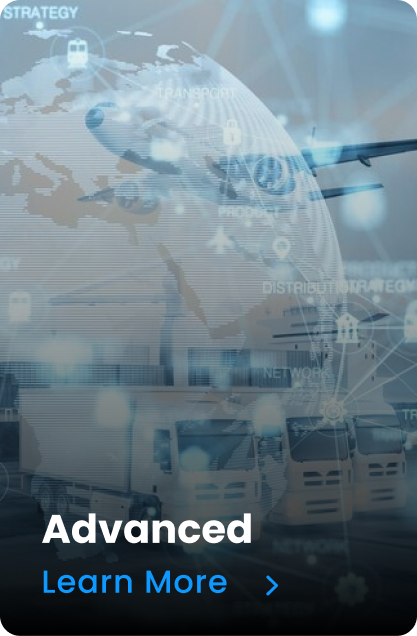
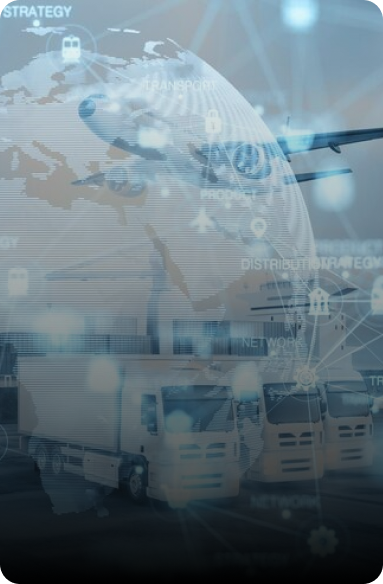
Major chances in cards

diff --git a/Index.html b/Index.html
@@ -208,9 +208,9 @@
     </section>
 
     <!-- Cards -->
-    <section class="">
+    <section >
         <div class="container p-5">
-            <div class="text-center py-5">
+            <div class="text-center">
 
                 <div class="monitor-text p-5">
                     <h3>unparallalled customer support</h3>
@@ -218,100 +218,82 @@
                     <!-- <p>Lorem ipsum dolor sit amet, consectetur adipisicing elit. Obcaecati reprehenderit provident vitae expedita quas! Eveniet animi vitae placeat facere necessitatibus inventore voluptatum asperiores illum deleniti, aperiam, veniam culpa id dolorum.</p> -->
                     <!-- <a href="#" class="explore-btn">Explore</a> -->
                 </div>
-
-                <div class="container">
-                    <div class="row justify-content-center m-0">
-        
-                        <div class="card-img mb-3 ml-2" style="width: 20rem;">
-                            <a href=""><img src="images/Electic.png" class="card-img" alt="..."></a>
-                            
-                            <div class="card-content">
-                                <!-- <p class="card-text">Electricity</p> -->
-                            </div>
-                        </div>
-                        <div class="card-img mb-3 ml-2" style="width: 20rem;">
-                            <a href=""><img src="images/Technology.png" class="card-img-top" alt="..."></a>
-                            
-                            <div class="card-body">
-                                <!-- <p class="card-text">Some quick example text to build on the card title and make up the bulk of the card's content.</p> -->
-                            </div>
-                        </div>
-                        <div class="card-img mb-3 ml-2" style="width: 20rem;">
-                            <a href=""><img src="images/Trucks.png" class="card-img-top" alt="..."></a>
-                            
-                            <div class="card-body">
-                                <!-- <p class="card-text">Some quick example text to build on the card title and make up the bulk of the card's content.</p> -->
-                            </div>
-                        </div> 
-                    </div>
-                </div>
-
             </div>
         </div>
-    </section>
 
-
-    <section>
-        <style>
-            /* Custom styles */
-            .card-container {
-                display: flex;
-                flex-wrap: wrap;
-                justify-content: center;
-                gap: 20px;
-            }
-            
-            .card-body{
-                position: absolute;
-                margin-top: 20.5rem;
-            }
-
-            .card-title{
-                font-size: 33px;
-            }
-    
-            /* For mobile view */
-            @media (max-width: 768px) {
-                .card-container {
-                    flex-wrap: wrap;
-                }
-                /* .card-body{
-                margin-top: -19rem;
-                }    */
-            }
-        </style>
         <div class="container">
             <div class="card-container">
-                <div class="card" style="width: 18rem;">
-                    <img src="images/Electic.png" class="card-img-top" alt="...">
+                <div class="baraha card mb-3 ml-2" style="width: 18rem;">
+                    
+                    <img src="images/Electric.png" class="card-img-top" alt="...">
                     <div class="card-body">
-                        <h5 class="card-title text-white fw-bold">Publi Utility</h5>
+                        <h5 class="card-title text-white fw-bold">Standard</h5>
                         <a href="#">Learn more</a>
                     </div>
                 </div>
-                <div class="card" style="width: 18rem;">
-                    <img src="images/Electic.png" class="card-img-top" alt="...">
+                <div class="baraha card mb-3 ml-2" style="width: 18rem;">
+                    <img src="images/Technology.png" class="card-img-top" alt="...">
                     <div class="card-body">
-                        <h5 class="card-title">Card 2</h5>
-                        <p class="card-text">Some quick example text to build on the card title and make up the bulk of the card's content.</p>
-                        <a href="#" class="btn btn-primary">Go somewhere</a>
+                        <h5 class="card-title text-white fw-bold">Advance</h5>
+                        <a href="#">Learn more</a>
                     </div>
                 </div>
-                <div class="card" style="width: 18rem;">
-                    <img src="images/Electic.png" class="card-img-top" alt="...">
+                <div class="baraha card mb-3 ml-2" style="width: 18rem;">
+                    <img src="images/Trucks.png" class="card-img-top" alt="...">
                     <div class="card-body">
-                        <h5 class="card-title">Card 3</h5>
-                        <p class="card-text">Some quick example text to build on the card title and make up the bulk of the card's content.</p>
-                        <a href="#" class="btn btn-primary">Go somewhere</a>
+                        <h5 class="card-title text-white fw-bold">Public Utility</h5>
+                        <a href="#">Learn more</a>
                     </div>
                 </div>
+                <!-- Add more cards here if needed -->
             </div>
         </div>
     </section>
 
+    
+
+    <!-- <style>
+
+   .card-container {
+    display: flex;
+    flex-wrap: nowrap;
+    justify-content: center;
+    gap: 20px;
+    overflow-x: auto; 
+    -webkit-overflow-scrolling: touch;
+    }
+
+    .card-body{
+        position: absolute;
+        margin-top: 20.5rem;
+    }
+
+    .card-title{
+        font-size: 33px;
+    }
+    .baraha{
+        border-radius: 20%;
+    }
+
+    @media (max-width: 768px) {
+        .card-container {
+            flex-wrap: nowrap; 
+            justify-content: flex-start; 
+            gap: 10px; 
+        }
+        .card {
+            min-width: 70vw; 
+        }
+        .card-body{
+            margin-top: 110%; 
+        }
+    } 
+    </style> -->
+
+    
     <!-- Email amd Map -->
     <section>
-        <div class="container p-5">
+        <div class="contact container p-5 mt-5">
             <div class="text-center">
                 <div class="monitor-text ">
                     <h1 class="fw-bold">Contact Us </h1>
@@ -338,7 +320,7 @@
                     </div>
                     <!-- map -->
                 </div>
-                <div class="map">
+                <div class="map ">
                     <iframe src="https://www.google.com/maps/embed?pb=!1m18!1m12!1m3!1d3860.712953250725!2d121.0345954751065!3d14.615420985872738!2m3!1f0!2f0!3f0!3m2!1i1024!2i768!4f13.1!3m3!1m2!1s0x3397b7b2c8d29705%3A0x4d8d7a0b89db90ad!2siNav%20Philippines%20Corporation!5e0!3m2!1sen!2sph!4v1714721296987!5m2!1sen!2sph" width="600" height="450" style="border:0;" allowfullscreen="" loading="lazy" referrerpolicy="no-referrer-when-downgrade"></iframe>
                 </div>
             </div>

diff --git a/Assets/Css/style.css b/Assets/Css/style.css
@@ -164,7 +164,7 @@
                 display: none !important;
             }
             .map{
-                margin-top: -15%;
+                margin-top: 0%;
             }
         }
     }
@@ -251,6 +251,48 @@
     .map iframe{
         height: 400px;
     }
+    .contact{
+        margin-bottom: 50px;
+    }
 }
 
+/* Card Container CSS */
+
+   /* Custom styles */
+   .card-container {
+    display: flex;
+    flex-wrap: nowrap;
+    justify-content: center;
+    gap: 20px;
+    overflow-x: auto; /* Added to enable horizontal scrolling */
+    -webkit-overflow-scrolling: touch; /* Added for smooth scrolling on iOS devices */
+    
+}
+
+.card-body{
+    position: absolute;
+    margin-top: 20.5rem;
+}
+
+.card-title{
+    font-size: 33px;
+}
+.baraha{
+    border-radius: 20%;
+}
+
+/* For mobile view */
+@media (max-width: 768px) {
+    .card-container {
+        flex-wrap: nowrap; /* Prevent wrapping onto multiple lines */
+        justify-content: flex-start; /* Align cards to the start */
+        gap: 10px; /* Reduce gap between cards for better mobile view */
+    }
+    .card {
+        min-width: 70vw; /* Set a minimum width for each card to fit in mobile view */
+    }
+    .card-body{
+        margin-top: 110%; /* Adjust margin for card body in mobile view */
+    }
+}
   
